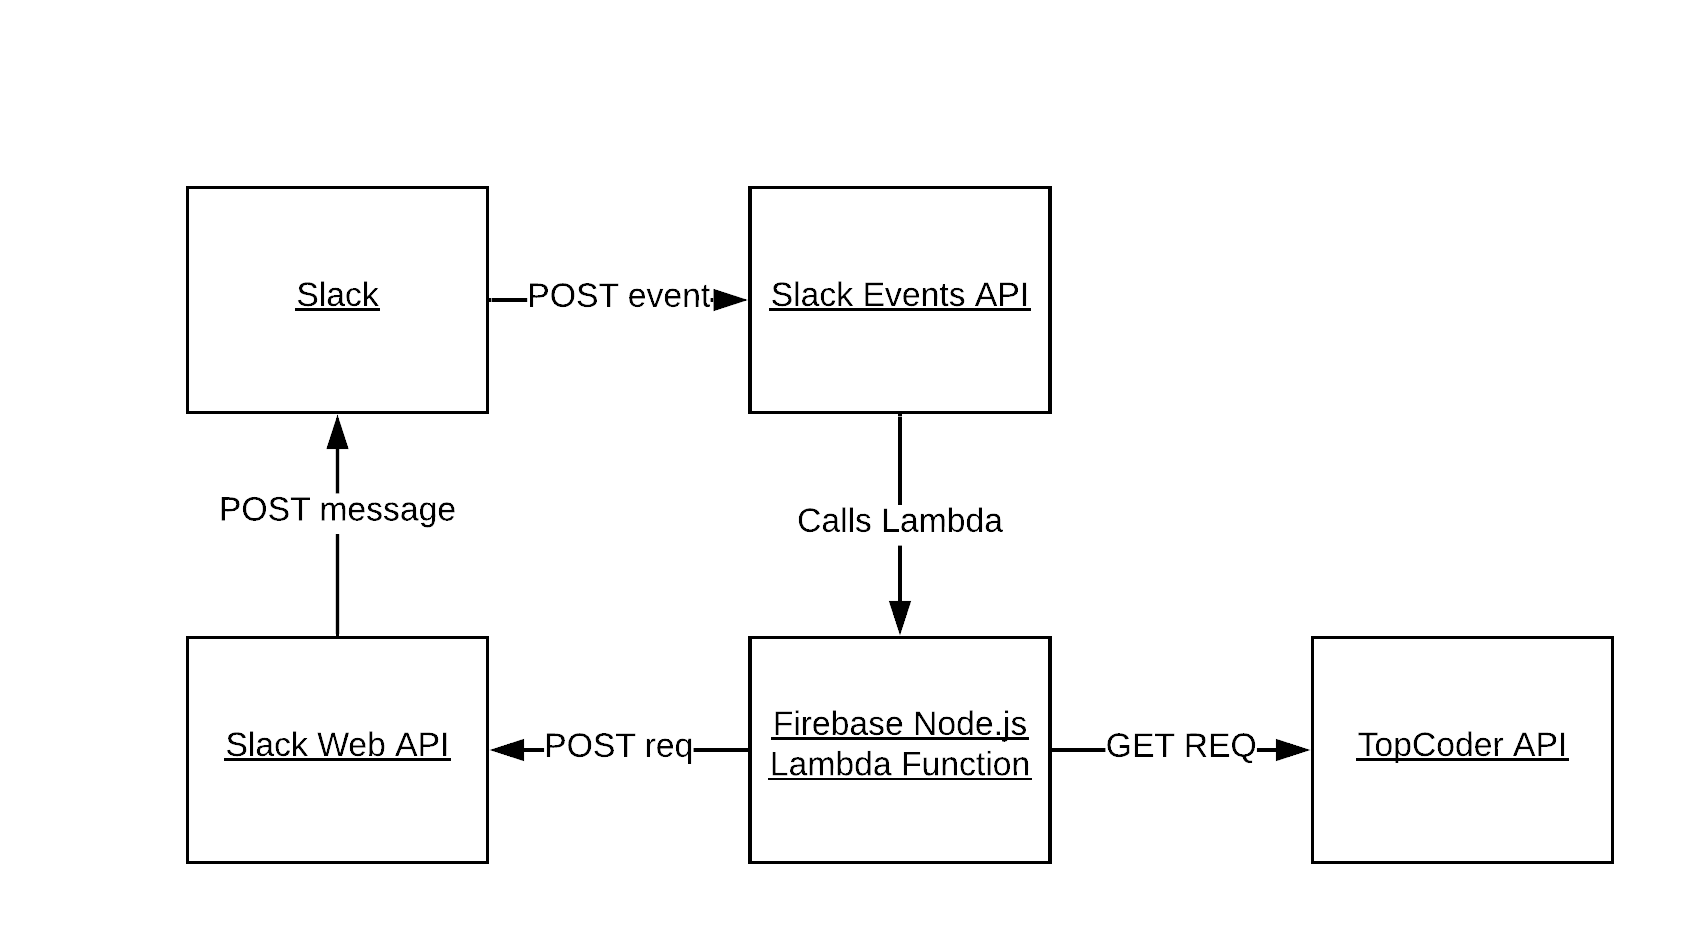
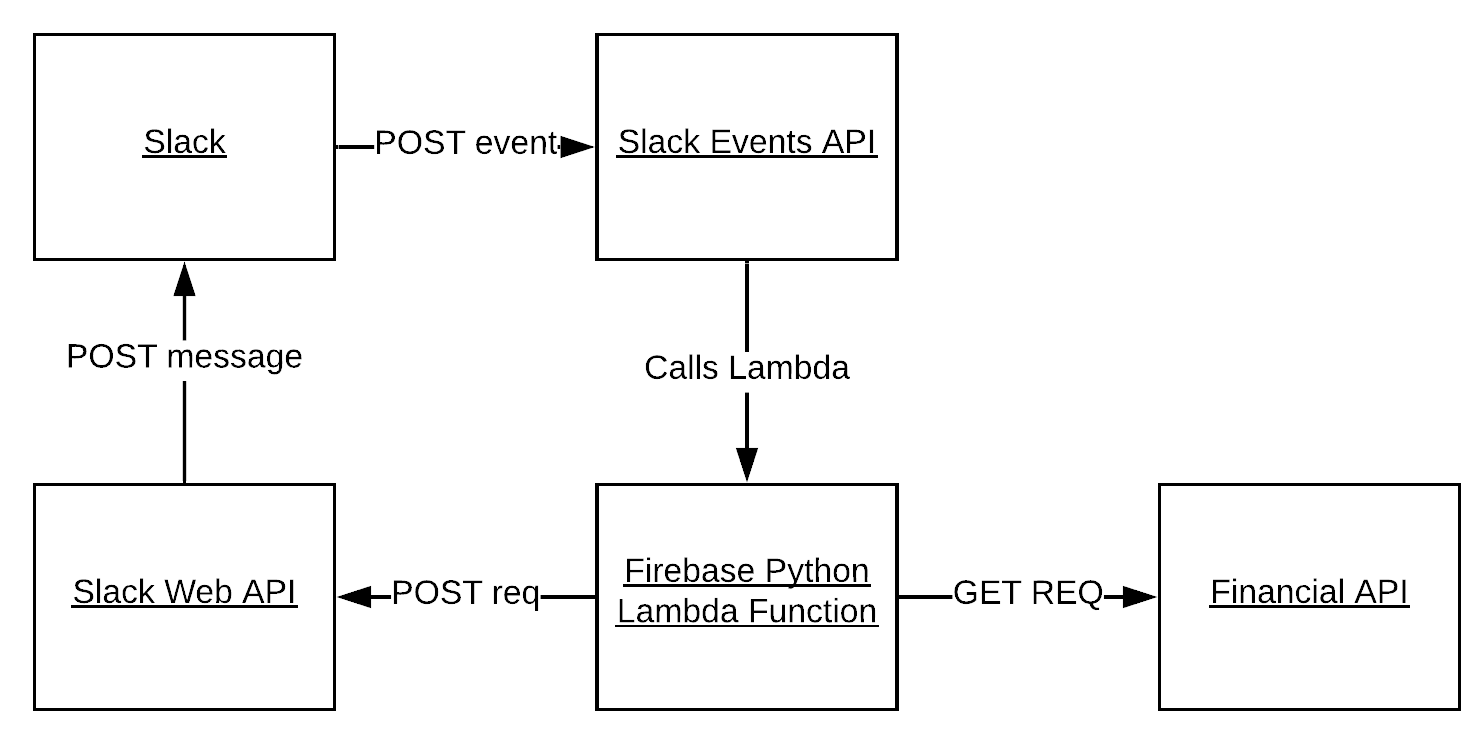
changed prompt

diff --git a/DESIGN.md b/DESIGN.md
@@ -2,42 +2,55 @@
 
 ## Problem Statement
 
-The problem we chose is that it is difficult to check TopCoder project status from the developers working environment. This is a problem because it reduces the developers efficiency to access the website for project details. Many developers dislike working out of their accustomed environments and see asking the website as a hassle.
+The problem we chose is that there exists no smooth integrations for financial trading and Slack. This is a problem because it reduces the traders efficiency because they have to use multiple dashboards separate from their group workspace. This is a hassle for traders when trading is dependent on split-second decisions.
 
 ## Bot Description
 
-The bot allows for developers to access crucial project data in a timely manner directly from the Slack environment. This will allow for users to initialize a Slack channel or workspace based around a TopCoder project and be able to call on the bot for informational functions. This is a good solution to the stated problem because many developers use Slack channels to manage work and using this bot will allow them to share project information with their team directly rather than having to reiterate it saving a significant amount of time.
+The bot allows for traders to access crucial financial data in a timely manner directly from the Slack environment. This will allow for users to initialize a Slack channel with the bot and be able to call on the bot for informational functions. This is a good solution to the stated problem because many traders use Slack channels to manage portfolios and using this bot will allow them to share financial information with their team directly rather than having to reiterate it saving a significant amount of time.
 
-This will start off as a minimum viable prototype of a chatbot that will take in specific commands and parameters and return an output. If time permits, we want to first make this bot conversational using Natural Language Understanding. If time permits after that, we additionally want to integrate our bot with other tools like Trello to easily integrate the TopCoder tasks onto a Trello board. A tagline for this bot is “TopCoder management from the comfort of your Slack Workspace”.
+This will start off as a minimum viable prototype of a chatbot that will take in specific commands and parameters and return an output. If time permits, we want to first make this bot conversational using Natural Language Understanding. If additional time permits beyond that, we will make the bot take in actual trading commands and connect it to a portfolio with an API like Robinhood's.
 
 ## Use Cases
 
-1. Get Open Tasks
+1. Get Quote of Ticker
   * **Preconditions**
     1. Bot is in the Slack channel.
   * **Main Flow**
-    1. Users message requesting to get open tasks [S1]
-    2. The bot responds with open tasks [S2]
-    3. Users then can reply to messages for additional details [S3]
+    1. Users message requesting to get stock quote [S1]
+    2. The bot responds with stock quote [S2]
   * **Sub Flows**
-    1. [S1]  User calls on bot by using “@top-coder-bot” followed by the command “getOpenTasks [projectID]”.
-    2. [S2] The bot will list out the remaining open tasks and relevant information.
-    3. [S3] Users can view task requirements by responding to the bot’s message with “@top-coder-bot” and then follow with “getTaskRequirements [taskID]”.
+    1. [S1]  User calls on bot by using “@stock-bot” followed by the command “getQuote -ticker=[Ticker]”.
+    2. [S2] The bot will respond information including bid, ask, and mid price.
   * **Alternate Flows**
-    1. [E1] The provided projectID does not exist.
-    2. [E2] There exist no tasks.
-    3. [E3] The provided taskID does not exist.
-1. Get User Tasks Completed**
+    1. [E1] The provided [Ticker] does not exist.
+    2. [E2] The user adds the flag '-data=[json or csv]' to get the quote in a non plain text format that can be used in data processing
+
+2. Get Exchange Rate
   * **Preconditions**
     1. Bot is in the Slack channel
   * **Main Flow**
-    1. Users message requesting to the tasks a user has completed [S1]
-    2. The bot responds with the tasks the user completed [S2]
-    3. Users can reply to messages for additional details [S3]
+    1. Users message requesting exchange rate [S1]
+    2. The bot responds with the exchange rate [S2]
   * **Sub Flows**
-    1. [S1] User calls on the bot by using “@top-coder-bot” followed by the command “getUserTasksCompleted [projectID] [userID]
-    2. [S2] The bot will list out the tasks that a given user has completed.
-    3. [S3] The user can request for additional information by responding to the bot’s message with “@top-coder-bot” and then follow with “getTaskInfo [taskID]” which will respond with the info including requirements and the time completed.
+    1. [S1] User calls on the bot by using “@stock-bot” followed by the command “getExchange -from=[CURRENCY] -to=[CURRENCY]
+    2. [S2] The bot will return the exchange rate.
+  * **Alternate Flows**
+    1. [E1] The provided currency codes don't exist and then will return a list of accepted currency symbols.
+    2. [E2] The user adds the flag '-data=[json or csv]' to get the exchange rate in a non plain text format that can be used in data processing.
+
+3. Get Weighted Moving Average
+  * **Preconditions**
+    1. Bot is in the Slack channel
+  * **Main Flow**
+    1. Uses message requesting WMA of Ticker [S1]
+    2. The bot responds with the WMA [S2]
+  * **Sub Flows**
+    1. [S1] User calls on bot by using "@stock-bot" followed by the command "getWMA -ticker=[Ticker]"
+    2. [S2] The bot will respond the weighted moving average for the specified period.
+  * **Alternate Flows**
+    1. [E1] The provided [Ticker] does not exist.
+    2. [E2] The user adds the flag '-interval=[1min, 5min, 15min, 30min, 60min, daily, weekly, or monthly]' to get the WMA.
+    3. [E3] The user adds the flag '-data=[json or csv]' to get the WMA in a non plain text format that can be used in data processing.
 
 ## Design Sketches
 

diff --git a/README.md b/README.md
@@ -1,4 +1,4 @@
-# TopCoder Slack Bot
+# Financial Slack Bot
 ## Overview
 Project for SSW 345 Model-based Software Engineering
 
